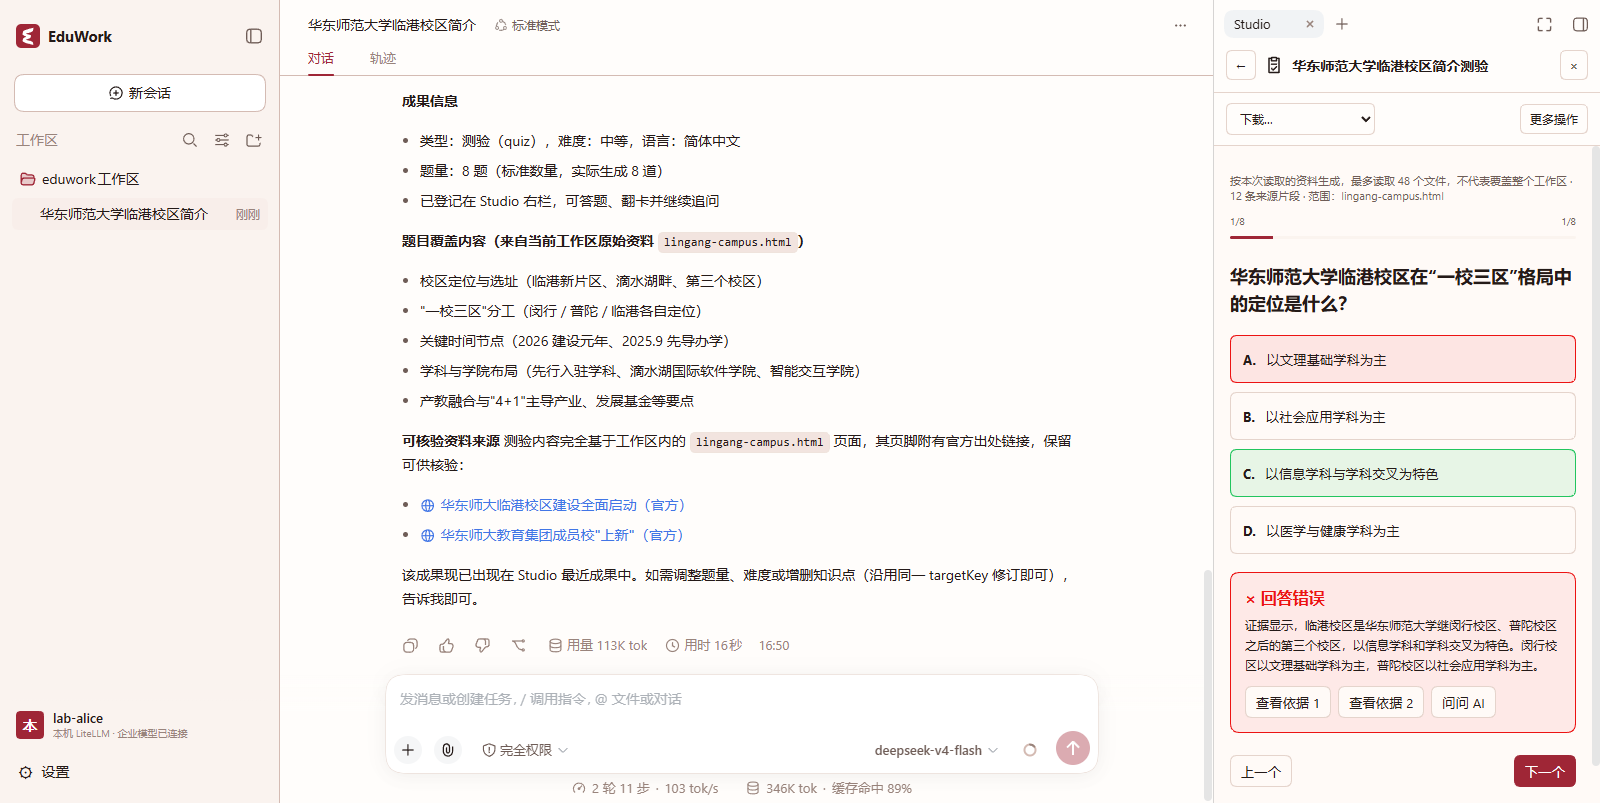
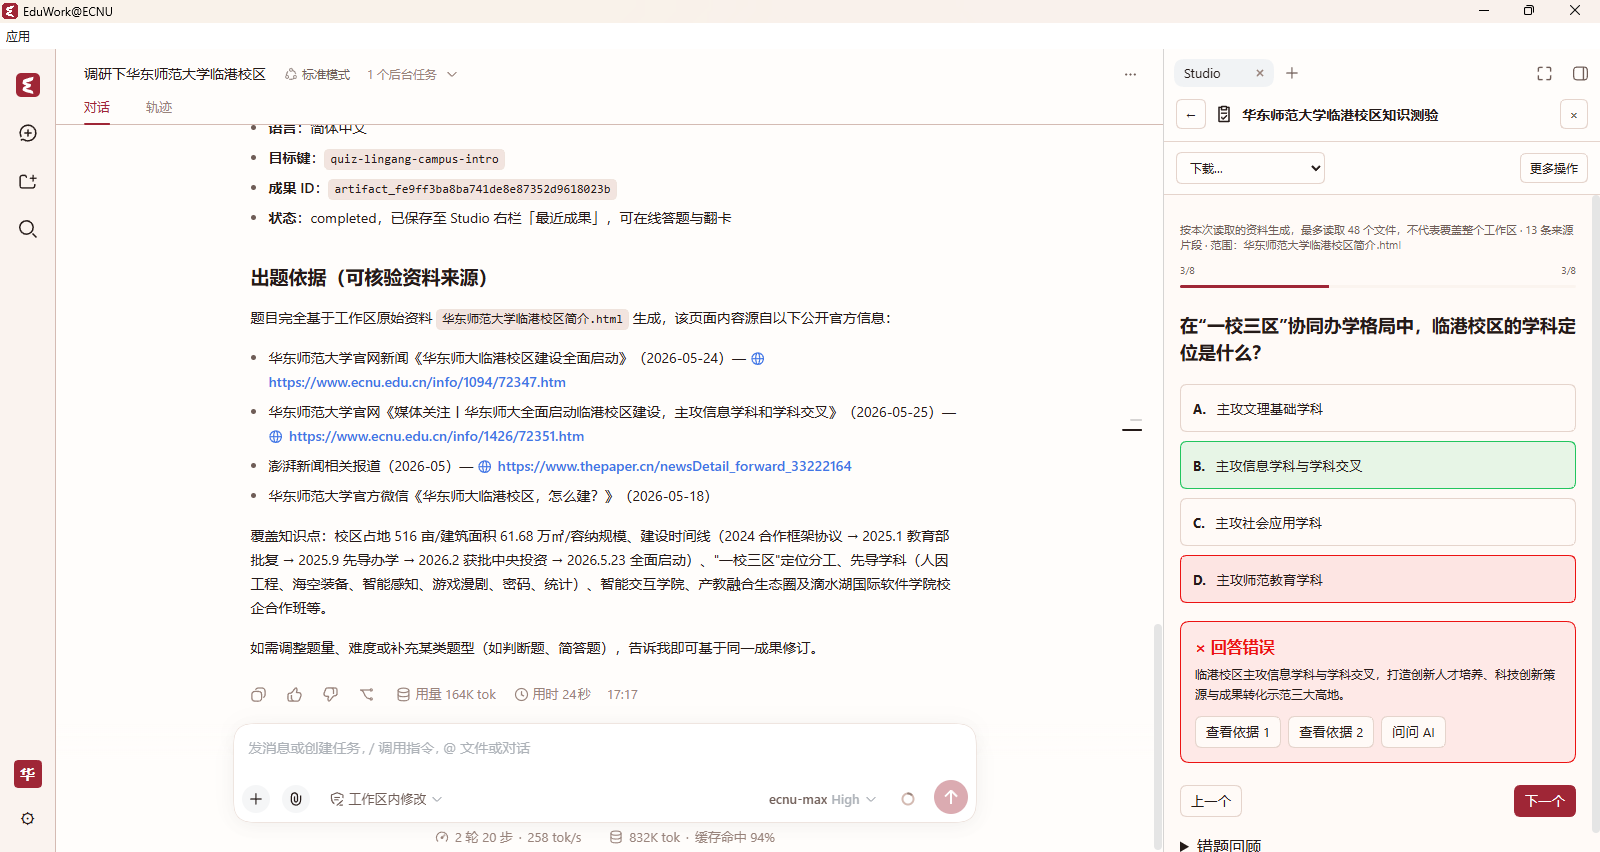
docs: use matching ECNU screenshots throughout the README

diff --git a/README_EN.md b/README_EN.md
@@ -20,9 +20,9 @@ EduWork@ECNU brings [EduWork](https://github.com/ecnu/EduWork) to East China Nor
 
 It includes the full EduWork workspace, Studio, and skill center. University services connect through configuration and plugins, and you can still use personal API keys and other models.
 
-![EduWork@ECNU workspace: turn local course materials into a teaching plan, shown in the red theme](docs/images/workspace.png)
+![EduWork@ECNU workspace: research campus information with a university model and preview a generated HTML page on the right](docs/images/workspace.png)
 
-<p align="center"><sub>The shared EduWork workspace, connected to university services. The theme defaults to red, with blue also available.</sub></p>
+<p align="center"><sub>From research to a finished page: complete the task with a university model and preview the result beside the conversation.</sub></p>
 
 > University users obtain the client through the school distribution channel; it downloads school configuration on first launch. This repository presents the institutional extension; its templates do not include complete school deployment settings.
 
@@ -63,6 +63,19 @@ After university sign-in and authorization, the client uses the login Token to d
 
 These integrations reuse the public edition's OIDC, model, and media adapters, with services and configuration supplied by the university.
 
+<details>
+<summary>See university service connection and model selection</summary>
+
+![Model settings show a connected ECNU AI service and its model catalog](docs/images/school-services.png)
+
+Check the university service's connection status and model catalog under Settings → Models. Personal model providers can also be added here.
+
+![A new EduWork@ECNU conversation with the university model ecnu-max selected](docs/images/school-model.png)
+
+Back in the conversation, select a university model at the bottom right of the composer to begin. The example uses `ecnu-max`; available models depend on university services and account permissions.
+
+</details>
+
 ### Other university extensions
 
 | Extension | Purpose and scope |
@@ -80,20 +93,16 @@ Choose a local folder as your workspace. Ask EduWork to read and organize source
 
 Conversations and Studio share generation, previews, and downloads. The skill center, local memory, mail assistant, browser, local transcription, system speech synthesis, and blue/red themes are also included.
 
-![Shared Studio capabilities: output types and a quiz generated from workspace materials, shown in the public edition](docs/images/studio.png)
+![EduWork@ECNU Studio: generate a quiz from workspace materials and view output types and an in-progress task in the sidebar](docs/images/studio.png)
 
-<p align="center"><sub>This public-edition screenshot demonstrates Studio features shared by both editions. The ECNU edition uses university branding, accounts, and model configuration.</sub></p>
+<p align="center"><sub>Start generation from Studio and follow its progress in the sidebar. Completed items appear under Recent results.</sub></p>
 
 <details>
-<summary>Explore quizzes and the skill center</summary>
+<summary>See how a generated quiz works</summary>
 
-![Check quiz answers, explanations, and source evidence, then ask AI a follow-up question, shown in the public edition](docs/images/quiz.png)
+![EduWork@ECNU quiz: check answers, explanations, and source evidence, then ask AI a follow-up question](docs/images/quiz.png)
 
 Answer a generated quiz directly, review explanations and source evidence, and use Ask AI to continue learning.
-
-![Browse built-in skills, import skills, or create your own, shown in the public edition](docs/images/skills.png)
-
-The skill center includes built-in task guidance and supports importing or creating your own skills. Both screenshots show shared features in the public edition.
 
 </details>
 

diff --git a/docs/images/README_EN.md b/docs/images/README_EN.md
@@ -6,9 +6,10 @@
 
 | File | Content and source |
 | --- | --- |
-| `workspace.png` | ECNU-edition workspace in the red theme |
-| `studio.png` | Public-edition Studio in the red theme: output types and recent results shared by both editions |
-| `quiz.png` | Public-edition quiz interaction, explanations, and source evidence: shared capabilities |
-| `skills.png` | Public-edition skill center: shared capabilities |
+| `workspace.png` | ECNU workspace: research with a university model and a generated HTML page preview |
+| `studio.png` | ECNU Studio: output types and a quiz being generated |
+| `quiz.png` | ECNU quiz answers, explanations, and source evidence |
+| `school-services.png` | University service connection status and model catalog in Settings |
+| `school-model.png` | University model selection in a new conversation, with a red box highlighting `ecnu-max` |
 
-Shared-feature screenshots retain the public edition's original branding, identified in their captions. Campus search, university sign-in, and quota should use actual ECNU-edition screens. Demonstration material illustrates features; generated content is not a factual reference. Chinese and English homepages share images. Keep alternative text in sync and exclude personal or institution-private information.
+All screenshots show the actual ECNU edition in the red theme with demonstration material. Existing privacy masks and highlights are preserved; generated content is not a factual reference. Chinese and English homepages share the images; keep alternative text in sync. Model and service availability depends on configuration and account permissions.

diff --git a/docs/images/README.md b/docs/images/README.md
@@ -6,9 +6,10 @@
 
 | 文件 | 展示内容与来源 |
 | --- | --- |
-| `workspace.png` | ECNU 版红色主题工作区。 |
-| `studio.png` | 公版红色主题 Studio，展示两版共享的成果类型入口与最近成果。 |
-| `quiz.png` | 公版测验交互、解析与来源依据，两版共享能力。 |
-| `skills.png` | 公版技能中心，两版共享能力。 |
+| `workspace.png` | ECNU 工作区：学校模型调研对话与生成的 HTML 网页预览。 |
+| `studio.png` | ECNU Studio：成果类型入口与正在生成的测验。 |
+| `quiz.png` | ECNU 测验答题、解析与来源依据。 |
+| `school-services.png` | 模型设置中的学校服务连接状态与模型目录。 |
+| `school-model.png` | 新会话中选择学校模型，红框标出当前使用的 `ecnu-max`。 |
 
-共享能力截图保留公版原始标识，图注注明来源；校内搜索、学校登录和配额应使用 ECNU 版实际界面。截图使用演示资料介绍功能，图中生成内容不作为事实参考。中英文首页共用图片；更新时同步替代文本，避免包含个人或机构私有数据。
+以上均为 ECNU 版实际界面截图，使用红色主题和演示资料。保留截图中已有的隐私遮挡与重点标注；图中生成内容不作为事实参考。中英文首页共用图片，更新时同步替代文本。学校模型与服务的实际可用范围以配置和账号权限为准。
